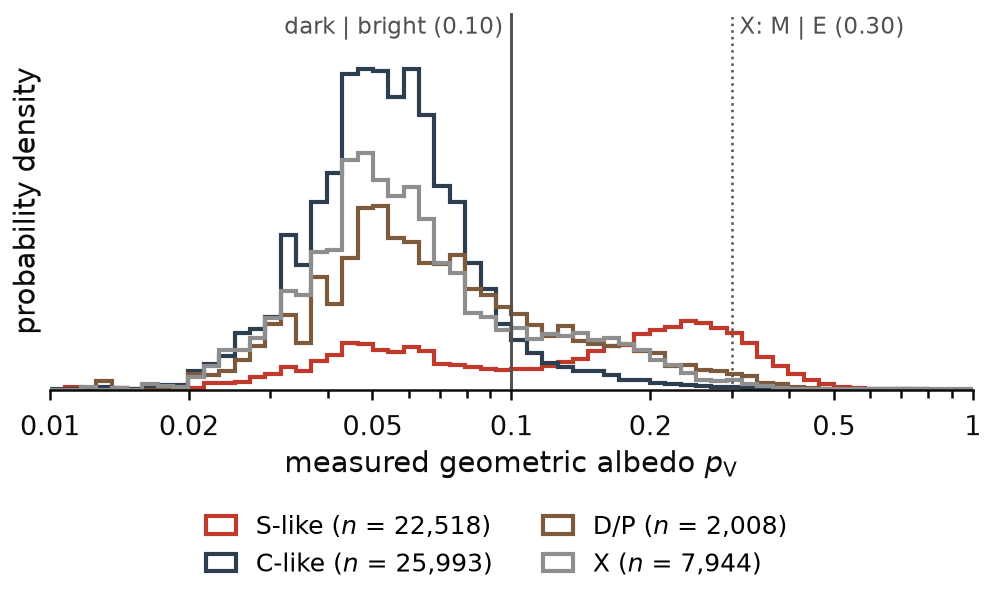
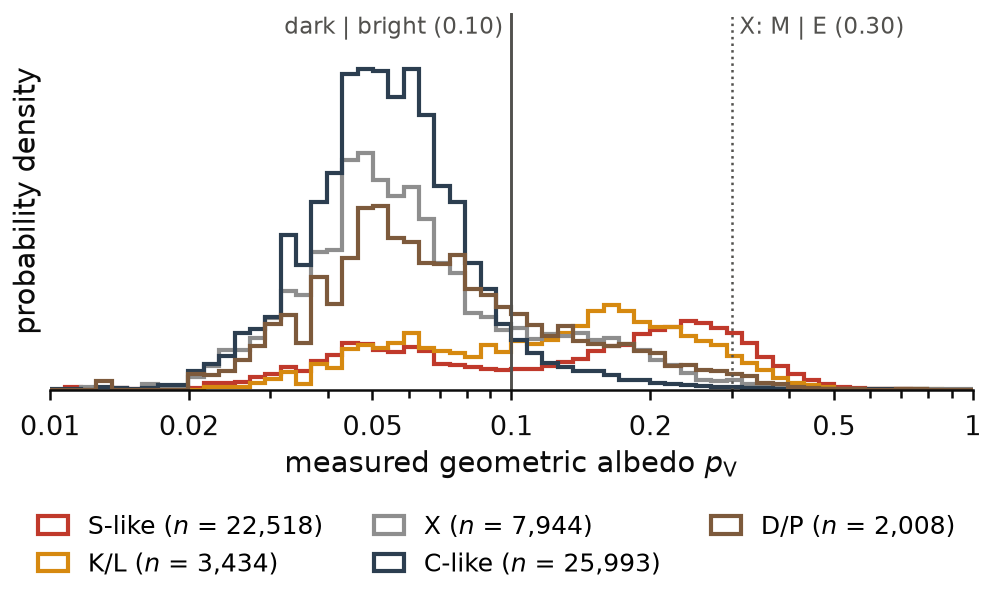
Fig. 12 shows K/L; the paper states three more results the data support (v2.6.5) (#27)
Fig. 12: show the K/L group's albedos too (v2.6.5)

Fig. 12 plotted the measured albedo of four of the five groups and left out
K/L, although summary.json has carried its numbers since v2.6.0. It now
plots all five (legend in three columns), and §4.6 quotes K/L's median
albedo (0.19, against 0.24 for S-like and 0.06 for C-like) and dark share
(15%), each tested against the summary.

The other 13 figures redraw byte for byte under Matplotlib 3.11.1, the
release that drew them; summary.json changes only in the version.

Paper: note that half the D/P group is brighter than 0.10; walkthrough prints the albedo checks

§4.6 says D- and T-types have low albedos, but Fig. 12 now shows the
photometric D/P group straddling the dark/bright boundary (median 0.10,
50% darker). The paper says so, and the numbers are tested against the
summary.

examples/walkthrough.py printed every robustness check but the albedo by
group (Fig. 12) and the X-type split by albedo; it now prints both.

Paper: three statements the data support but the text left out

- §4.4: even the lower ends of the width intervals (1.18–1.32 au) are about
  the belt's span or more, so "wider than the belt" does not rest on the
  point estimates alone.
- §4.5: the pristine-zone median differences have 95% intervals that only
  just exclude zero, and the middle-belt inclinations differ in the other
  direction (S-like bodies more inclined, as Eunomia's halo would make
  them); Table 5 showed this, the text did not say it.
[…]

diff --git a/paper/main.tex b/paper/main.tex
@@ -87,7 +87,7 @@ Table~\ref{tab:1} summarizes the predictions this paper can test. The scenarios 
 The static front makes the sharpest prediction, and the asteroid data alone can test it, because the transition should be much narrower than the 1.2~au span of the belt. The moving snow line is harder to test this way, since it predicts a broad transition too. What distinguishes it from the implantation models is the \textit{material} in the inner belt’s C-types, which must be assessed from meteorites.
 
 \section{Data and Methods}\label{sec:3}
-All analysis code is in a public Python repository, asteroid-belt-gradient (\citealt{edwards2026a}; release v2.6.4), built on NumPy (\citealt{harris2020}), SciPy (\citealt{virtanen2020}), pandas (\citealt{mckinney2010}) and Matplotlib (\citealt{hunter2007}). Two commands download the inputs and regenerate every figure and table in this paper, along with every number in the text that is derived from the data.
+All analysis code is in a public Python repository, asteroid-belt-gradient (\citealt{edwards2026a}; release v2.6.5), built on NumPy (\citealt{harris2020}), SciPy (\citealt{virtanen2020}), pandas (\citealt{mckinney2010}) and Matplotlib (\citealt{hunter2007}). Two commands download the inputs and regenerate every figure and table in this paper, along with every number in the text that is derived from the data.
 
 \subsection{The asteroid catalog and which labels to trust}\label{sec:3.1}
 The starting point is a merged catalog of 1,568,882 asteroids, AsteroidCatalog (\citealt{edwards2026b}), built from NASA JPL’s Small-Body Database (\citetalias{jpl2026}), the SsODNet ssoBFT table (\citealt{berthier2023}), NEOWISE diameters and albedos (\citealt{mainzer2011a,mainzer2019}; \citealt{masiero2011,masiero2012,masiero2014,masiero2017}; \citealt{nugent2015,nugent2016}), and the Minor Planet Physical Properties Catalogue (MP3C; \citetalias{mp3c2026}), in its release of 2026 September 29 (tag \mbox{data-2026-09-29c}). The sample is restricted to the main belt: $2.1 < a < 3.3$~au with perihelion $q > 1.3$~au, which removes Mars-crossers. This leaves 1,443,761 bodies. The belt is divided at the 3:1, 5:2 and 7:3 mean-motion resonances with Jupiter into four zones: inner (2.1–2.5~au), middle (2.5–2.82~au), “pristine” (2.82–2.96~au; \citealt{brozetal2013}) and outer (2.96–3.3~au).
@@ -213,7 +213,7 @@ Asteroid masses have been measured, from spacecraft, binary orbits or gravitatio
 \caption{Mass fraction of each compositional group by zone, for all classified bodies (left) and without Ceres, Vesta, Pallas and Hygiea (right). Total classified mass per zone is given at right.}\label{fig:7}
 \end{figure*}
 \subsection{The crossover}\label{sec:4.4}
-Table~\ref{tab:4} lists the fitted crossover for each sample, and Figure~\ref{fig:8} shows the fitted curves. The raw sample places it at 2.84~au, close to the classical snow line. The three debiased samples move it inward to 2.41–2.47~au, 0.2–0.3~au inside the snow line of Equation~(\ref{eq:1}), and agree with each other within their uncertainties. In every debiased sample the 10–90\% width of the transition is 1.4–1.5~au, larger than the 1.2~au span of the belt. Because the width exceeds the belt, part of each fitted curve is an extrapolation: no debiased fit falls to a C-fraction of 10\% within the belt, and each reaches 90\% only near the belt’s outer edge.
+Table~\ref{tab:4} lists the fitted crossover for each sample, and Figure~\ref{fig:8} shows the fitted curves. The raw sample places it at 2.84~au, close to the classical snow line. The three debiased samples move it inward to 2.41–2.47~au, 0.2–0.3~au inside the snow line of Equation~(\ref{eq:1}), and agree with each other within their uncertainties. In every debiased sample the 10–90\% width of the transition is 1.4–1.5~au, larger than the 1.2~au span of the belt, and even the lower ends of the intervals (1.18–1.32~au) are about as wide as the belt or wider. Because the width exceeds the belt, part of each fitted curve is an extrapolation: no debiased fit falls to a C-fraction of 10\% within the belt, and each reaches 90\% only near the belt’s outer edge.
 
 \begin{deluxetable*}{lccc}
 \tabletypesize{\footnotesize}
@@ -235,7 +235,7 @@ Snow line, Equation~(\ref{eq:1}) & 2.67 & \nodata & \nodata
 \caption{Logistic fits (Equation~(\ref{eq:4})) to the four samples of Table~\ref{tab:4}, solid within the main belt (shaded) and dotted outside it. The lower panel gives each crossover $a_{50}$ with its 16–84\% bootstrap interval; the dashed line marks the snow line of Equation~(\ref{eq:1}).}\label{fig:8}
 \end{figure}
 \subsection{Orbital excitation}\label{sec:4.5}
-Figure~\ref{fig:9} and Table~\ref{tab:5} compare the proper orbits of \mbox{S-}~and C-types within each zone. In the inner belt, where the implantation question matters most, the two distributions are nearly identical ($p = 0.44$ for $e_{\mathrm{P}}$, 0.17 for $\sin i_{\mathrm{P}}$). The largest differences in median are in the pristine zone, where C-types have higher median eccentricity (0.175 versus 0.113) and inclination ($\sin i_{\mathrm{P}}$ 0.217 versus 0.125), but only 24 S-types fall in that zone and neither difference passes the corrected threshold. Only the outer-belt inclinations pass it ($p = 0.0060$). Their medians are almost equal ($\Delta = 0.002$), and the distributions differ in shape: C-types show an excess at the lowest inclinations, where the C-type Themis family lies, and S-like bodies cluster near the inclination of the Eos family. Both patterns are expected from family members missing from the HCM lists (Section~\ref{sec:5.5}). Figure~\ref{fig:10} shows where the tested bodies lie relative to the families. Many outer-belt C-types lie at the low inclinations of the Themis family, and in the middle belt S-like background bodies concentrate around the Eunomia family. With the one-step family extension of Section~\ref{sec:4.6}, which attaches such bodies to their families, no test passes; the smallest $p$ is 0.011, again for the outer-belt inclinations.
+Figure~\ref{fig:9} and Table~\ref{tab:5} compare the proper orbits of \mbox{S-}~and C-types within each zone. In the inner belt, where the implantation question matters most, the two distributions are nearly identical ($p = 0.44$ for $e_{\mathrm{P}}$, 0.17 for $\sin i_{\mathrm{P}}$). The largest differences in median are in the pristine zone, where C-types have higher median eccentricity (0.175 versus 0.113) and inclination ($\sin i_{\mathrm{P}}$ 0.217 versus 0.125), but only 24 S-types fall in that zone and neither difference passes the corrected threshold, although the 95\% intervals of both only just exclude zero. The middle-belt inclinations differ in the other direction: there S-like bodies are the more inclined (0.170 versus 0.150), as members of the Eunomia family’s halo would be, and the 95\% interval of that difference also excludes zero. Only the outer-belt inclinations pass it ($p = 0.0060$). Their medians are almost equal ($\Delta = 0.002$), and the distributions differ in shape: C-types show an excess at the lowest inclinations, where the C-type Themis family lies, and S-like bodies cluster near the inclination of the Eos family. Both patterns are expected from family members missing from the HCM lists (Section~\ref{sec:5.5}). Figure~\ref{fig:10} shows where the tested bodies lie relative to the families. Many outer-belt C-types lie at the low inclinations of the Themis family, and in the middle belt S-like background bodies concentrate around the Eunomia family. With the one-step family extension of Section~\ref{sec:4.6}, which attaches such bodies to their families, no test passes; the smallest $p$ is 0.011, again for the outer-belt inclinations.
 
 \begin{figure*}[t!]
 \centering
@@ -265,7 +265,7 @@ Outer & $e_{\mathrm{P}}$ & 137 & 1,062 & 0.014 [\ensuremath{-}0.002, 0.034] & 0.
 \caption{Proper semimajor axis and inclination of the S-like and C-like background bodies with $D \geq 10$~km compared in Table~\ref{tab:5}, over the density of all family members (gray, logarithmic scale). Labels mark the largest families; dotted lines mark the Kirkwood gaps.}\label{fig:10}
 \end{figure}
 \subsection{Robustness}\label{sec:4.6}
-\textbf{An albedo-only check. }Taxonomy can be avoided altogether by using measured albedos. C-, B-, \mbox{D-}~and T-types all have low visible albedos, while S-types are brighter, although the two overlap at small sizes (\citealt{mainzer2011b}). Treating $p_{\mathrm{V}} < 0.10$ as “dark” and applying the same completeness analysis gives a complete sample for $D \geq 33$~km. For background bodies in that sample, the dark fraction is 0.45, 0.66, 0.79 and 0.82 from the inner to the outer zone (Figure~\ref{fig:11}), in close agreement with the taxonomic results. Albedo and taxonomy come from different surveys and different physics (thermal infrared versus reflectance colors), so the agreement indicates that the result is not an artifact of the classification. The two measures are not identical: among bodies with both a published class and a measured albedo, 84\% of the C-like and 13\% of the S-like bodies are darker than 0.10 (Figure~\ref{fig:12}).
+\textbf{An albedo-only check. }Taxonomy can be avoided altogether by using measured albedos. C-, B-, \mbox{D-}~and T-types all have low visible albedos, while S-types are brighter, although the two overlap at small sizes (\citealt{mainzer2011b}). Treating $p_{\mathrm{V}} < 0.10$ as “dark” and applying the same completeness analysis gives a complete sample for $D \geq 33$~km. For background bodies in that sample, the dark fraction is 0.45, 0.66, 0.79 and 0.82 from the inner to the outer zone (Figure~\ref{fig:11}), in close agreement with the taxonomic results. Albedo and taxonomy come from different surveys and different physics (thermal infrared versus reflectance colors), so the agreement indicates that the result is not an artifact of the classification. The two measures are not identical: among bodies with both a published class and a measured albedo, 84\% of the C-like and 13\% of the S-like bodies are darker than 0.10 (Figure~\ref{fig:12}). K/L-types are much closer to the S-like bodies than to the C-like ones: their median albedo is 0.19, against 0.24 and 0.06, and 15\% of them are darker than 0.10. The D/P group straddles the boundary (median 0.10, with 50\% of its members darker than 0.10), so its photometric labels include many bodies brighter than typical \mbox{D-}~and T-types.
 
 \begin{figure}[htb!]
 \centering
@@ -279,7 +279,7 @@ Outer & $e_{\mathrm{P}}$ & 137 & 1,062 & 0.014 [\ensuremath{-}0.002, 0.034] & 0.
 \begin{figure}[htb!]
 \centering
 \includegraphics[width=\columnwidth]{figures/fig12_albedo_by_group.png}
-\caption{Measured geometric albedo of the S-like, C-like, D/P and X-type bodies with a published taxonomy (normalized histograms). The solid line marks the dark/bright boundary of Section~\ref{sec:4.6} ($p_{\mathrm{V}} = 0.10$), and the dotted line the boundary between \mbox{M-}~and E-type X-types ($p_{\mathrm{V}} = 0.30$).}\label{fig:12}
+\caption{Measured geometric albedo of the bodies with a published taxonomy in each of the five groups (normalized histograms). The solid line marks the dark/bright boundary of Section~\ref{sec:4.6} ($p_{\mathrm{V}} = 0.10$), and the dotted line the boundary between \mbox{M-}~and E-type X-types ($p_{\mathrm{V}} = 0.30$).}\label{fig:12}
 \end{figure}
 \textbf{Family membership. }The 2015 family lists include only asteroids numbered by 2015. As an upper bound on missed members, every unlisted body whose nearest listed family member lies within that family’s HCM cutoff is attached to that family. This is deliberately aggressive, since the cutoffs were tuned on a catalog of 384,337 numbered asteroids (\citealt{nesvorny2015}), about a third the size of the 1.25 million orbits used here, and it raises the family fraction from 10.6\% to 24.3\%. Even so, zone fractions change by at most 0.01 and the crossover moves by at most 0.02~au.
 
@@ -314,7 +314,7 @@ Supplying enough mass is not a problem for implantation. When the giant planets 
 Whatever process excited the belt’s eccentricities and inclinations acted on both populations after they were in place (\citealt{petit2001}; \citealt{morbidelli2015}), and over 4.5~Gyr, secular resonances, mean-motion resonances and size-dependent Yarkovsky drift (\citealt{bottke2006}) would erase much of any small difference that survived. In the Grand Tack, for example, the eccentricities left by implantation are reshaped by the later giant-planet instability and 4~Gyr of evolution into a distribution close to today’s (\citealt{deienno2016}). The absence of a class dependence beyond what family halos produce is therefore consistent with implantation but does not independently favor it. The nominal excess excitation of pristine-zone C-types (Table~\ref{tab:5}) should be re-examined with a larger S-type sample.
 
 \subsection{Limitations}\label{sec:5.5}
-Photometric taxonomy is coarse: most classifications come from SkyMapper or SDSS colors rather than spectra (\citealt{sergeyev2021}; \citealt{sergeyev2022}), so the analysis is kept at the level of broad groups. K-types are often confused with S-types in color data, which is why \citet{demeo2013} reclassify the K-type Eos family by hand; here Eos is classified as S-like by plurality (0.44 of its classified members).
+Photometric taxonomy is coarse: most classifications come from SkyMapper or SDSS colors rather than spectra (\citealt{sergeyev2021}; \citealt{sergeyev2022}), so the analysis is kept at the level of broad groups. K-types are often confused with S-types in color data, which is why \citet{demeo2013} reclassify the K-type Eos family by hand; here Eos is classified as S-like by plurality (0.44 of its classified members), and only 0.19 of them are K/L, fewer than the 0.30 that are C-like. Color labels also misplace some members of families whose composition is not in doubt: 6\% of the classified members of the basaltic Vesta family are C-like, and 6\% of those of the C-type Themis family are S-like, whether as misclassifications or as interlopers. Errors at that rate cannot turn an S-type population into one with the inner-belt C-fractions of 0.39–0.53 found here.
 
 The isotopic argument rests on a few sample links. Section~\ref{sec:5.1} assumes that C-complex asteroids in general sample CC material. That is established for Ryugu and Bennu (\citealt{yokoyama2023}; \citealt{lauretta2024}) and supported by spectral links to CI and CM chondrites (e.g., \citealt{rivkin2012}), but not demonstrated body by body.
 
@@ -340,7 +340,7 @@ This research has made use of data and services provided by the International As
 \software{NumPy \citep{harris2020}, SciPy \citep{virtanen2020}, pandas \citep{mckinney2010}, Matplotlib \citep{hunter2007}, asteroid-belt-gradient \citep{edwards2026a}}
 \section*{Data availability}
 {\raggedright % URLs and identifiers cannot stretch: ragged right instead of loose justified lines
-Family membership and proper elements: the PDS Small Bodies Node, bundle \texttt{ast.nesvorny.families} V2.0 (\citealt{nesvorny2024}). Asteroid catalog: the AsteroidCatalog (\citealt{edwards2026b}; \url{https://github.com/loggger101/AsteroidCatalog}), release \mbox{data-2026-09-29c}, one frozen build that the analysis code downloads by its tag. Among its sources is the NEOWISE Diameters and Albedos V2.0 data set (\citealt{mainzer2019}). Analysis code: asteroid-belt-gradient v2.6.4 (\citealt{edwards2026a}; \url{https://github.com/loggger101/asteroid-belt-gradient}), which downloads both inputs and reproduces every figure and table; every number in the text that comes from the data or from the calculations described here is written to its \texttt{results/summary.json}.\par}
+Family membership and proper elements: the PDS Small Bodies Node, bundle \texttt{ast.nesvorny.families} V2.0 (\citealt{nesvorny2024}). Asteroid catalog: the AsteroidCatalog (\citealt{edwards2026b}; \url{https://github.com/loggger101/AsteroidCatalog}), release \mbox{data-2026-09-29c}, one frozen build that the analysis code downloads by its tag. Among its sources is the NEOWISE Diameters and Albedos V2.0 data set (\citealt{mainzer2019}). Analysis code: asteroid-belt-gradient v2.6.5 (\citealt{edwards2026a}; \url{https://github.com/loggger101/asteroid-belt-gradient}), which downloads both inputs and reproduces every figure and table; every number in the text that comes from the data or from the calculations described here is written to its \texttt{results/summary.json}.\par}
 
 \appendix
 \restartappendixnumbering

diff --git a/tests/test_paper_numbers.py b/tests/test_paper_numbers.py
@@ -192,6 +192,7 @@ def _prose() -> dict[str, str]:
     top4, ipw_inner = t["mass_share_of_classified"], t["innermost_c_fraction_ipw"]
     n_lo, n_hi = sorted(t["innermost_n_S_plus_C_size_complete_2.1-2.3"].values())
     big, second = t["flora_family_two_largest"]
+    fs = t["family_voter_group_shares"]
     dark = [S["dark_fraction_complete"][z] for z in ZONES]
     no4 = [mc["no_big4"][z] for z in ZONES]
     p_share = xs["P_share_of_split_by_zone"]
@@ -256,6 +257,8 @@ def _prose() -> dict[str, str]:
         "debiased crossover": f"move it inward to {a50_span}~au, {sl - max(a50[k] for k in debiased):.1f}–"
                               f"{sl - min(a50[k] for k in debiased):.1f}~au inside the snow line",
         "transition width": f"the 10–90\\% width of the transition is {width_span}~au",
+        "transition width, lower ends": "the lower ends of the intervals ("
+                                        + span([S["crossover"][k]["width_lo"] for k in debiased]) + "~au)",
         "inward move (5.1)": f"the crossover moves inward by about {a50[raw] - a50[KEYS[1]]:.1f}~au",
         "IPW and complete crossovers (5.5)": f"({a50[KEYS[2]]:.2f} versus {a50[KEYS[1]]:.2f}~au)",
         # section 4.5
@@ -264,7 +267,9 @@ def _prose() -> dict[str, str]:
         "pristine e medians": f"({ot['pristine', 'proper e']['median_C']:.3f} versus {ot['pristine', 'proper e']['median_S']:.3f})",
         "pristine sin i medians": f"($\\sin i_{{\\mathrm{{P}}}}$ {ot['pristine', 'proper sin i']['median_C']:.3f} versus "
                                   f"{ot['pristine', 'proper sin i']['median_S']:.3f})",
-        "pristine S-types": f"only {ot['pristine', 'proper e']['n_S']} S-types fall in that zone",
+        "middle sin i medians": f"S-like bodies are the more inclined ({ot['middle', 'proper sin i']['median_S']:.3f} versus "
+                                f"{ot['middle', 'proper sin i']['median_C']:.3f})",
+        "pristine S-types":f"only {ot['pristine', 'proper e']['n_S']} S-types fall in that zone",
         "outer inclinations": f"Only the outer-belt inclinations pass it ($p = {p2(ot['outer', 'proper sin i']['KS_p'])}$)",
         "outer medians": f"($\\Delta = {ot['outer', 'proper sin i']['dmedian_C_minus_S']:.3f}$)",
         "extended orbit test": f"the smallest $p$ is {p2(min(r['KS_p'] for r in ext['orbit_tests_ks']))}, "
@@ -274,6 +279,11 @@ def _prose() -> dict[str, str]:
         "albedo complete limit": f"gives a complete sample for $D \\geq {S['completeness']['D_complete_albedo_km']:.0f}$~km",
         "dark C and S": f"{pct(S['albedo_by_group']['C-like']['frac_below_0.10'])} of the C-like and "
                         f"{pct(S['albedo_by_group']['S-like']['frac_below_0.10'])} of the S-like bodies are darker than 0.10",
+        "K/L albedo": f"their median albedo is {S['albedo_by_group']['K/L']['median_pV']:.2f}, against "
+                      f"{S['albedo_by_group']['S-like']['median_pV']:.2f} and {S['albedo_by_group']['C-like']['median_pV']:.2f}, "
+                      f"and {pct(S['albedo_by_group']['K/L']['frac_below_0.10'])} of them are darker than 0.10",
+        "D/P albedo": f"(median {S['albedo_by_group']['D/P']['median_pV']:.2f}, with "
+                      f"{pct(S['albedo_by_group']['D/P']['frac_below_0.10'])} of its members darker than 0.10)",
         "X split counts": f"Of the {xs['n_taxonomy_X_group']:,} classified X-complex bodies, {xs['n_split']:,} have a measured albedo",
         "X split P-like": f"and {xs['n_split_by_class']['P']:,} of these are P-like",
         "X split P share": f"lower in the inner belt ({p_share['inner']:.2f}) than beyond it ({span([p_share[z] for z in ZONES[1:]])})",
@@ -283,6 +293,10 @@ def _prose() -> dict[str, str]:
         "middle belt (5.2)": f"raise its middle-belt C-fraction from {zone_f(raw, 'middle'):.2f} to {deb('middle')}",
         "Eos": f"here Eos is classified as {t['eos_family']['fam_group']} by plurality "
                f"({t['eos_family']['purity']:.2f} of its classified members)",
+        "Eos K/L and C": f"only {fs['Eos']['K/L']:.2f} of them are K/L, fewer than the {fs['Eos']['C-like']:.2f} that are C-like",
+        "Vesta and Themis": f"{pct(fs['Vesta']['C-like'])} of the classified members of the basaltic Vesta family are C-like, "
+                            f"and {pct(fs['Themis']['S-like'])} of those of the C-type Themis family are S-like",
+        "inner C range (5.5)": f"the inner-belt C-fractions of {deb('inner')} found here",
         "derived diameters": f"Of the classified bodies, {pct(t['derived_diameter_fraction_taxonomy'])} have diameters",
         "Flora": f"(9) {big['name']}, an \\mbox{{{big['spectral_type']}-type}} body larger than the {second['spectral_type']}-type "
                  f"(8) {second['name']} itself",
@@ -303,7 +317,9 @@ def test_no_share_the_paper_prints_as_a_percentage_is_stored_on_a_half_percent()
     shares = (t["dp_share_per_0.1AU_bin_from_2.9AU"] + t["completeness_H13.5_to_14.5_range"]
               + list(t["mass_share_of_classified"].values()) + [mc["inner"], mc["middle"]]
               + [t[k] for k in ("assumed_label_fraction", "measured_share_of_classified_mass", "inner_mass_S_of_S_plus_C",
-                                "derived_diameter_fraction_taxonomy")])
+                                "derived_diameter_fraction_taxonomy")]
+              + [SUMMARY["albedo_by_group"][g]["frac_below_0.10"] for g in ("S-like", "C-like", "K/L", "D/P")]
+              + [t["family_voter_group_shares"]["Vesta"]["C-like"], t["family_voter_group_shares"]["Themis"]["S-like"]])
     for v in shares:
         halves = round(v * 200, 6)                     # a whole number of half percents
         assert not (halves.is_integer() and int(halves) % 2 == 1), f"{v} is stored on a half percent"
@@ -343,8 +359,33 @@ def test_every_debiased_transition_is_wider_than_the_belt_and_reaches_10_and_90_
         x = SUMMARY["crossover"][k]
         a10, a90 = x["a50"] - x["width_10_90"] / 2, x["a50"] + x["width_10_90"] / 2
         assert x["width_10_90"] > A_MAX - A_MIN, k
+        assert x["width_lo"] > A_MAX - A_MIN - 0.05, f"{k}: the interval's lower end is not about the belt's span or more"
         assert a10 < A_MIN, f"{k}: the fit falls to 10% inside the belt, at a = {a10:.2f} au"
         assert A_MAX - 0.2 < a90 < A_MAX, f"{k}: the fit reaches 90% at a = {a90:.2f} au"
+
+
+def test_the_family_voter_shares_agree_with_the_family_table():
+    """§5.5 quotes the voting members' groups for Eos, Vesta and Themis; they are the same members that set Eos's
+    class and its purity."""
+    t = SUMMARY["text_numbers"]
+    fs, eos = t["family_voter_group_shares"], t["eos_family"]
+    assert round(fs["Eos"][eos["fam_group"]], 2) == eos["purity"]
+    assert max(fs["Eos"], key=fs["Eos"].get) == eos["fam_group"]
+    for name, shares in fs.items():
+        assert abs(sum(shares.values()) - 1) < 1e-3, name
+    assert max(fs["Vesta"], key=fs["Vesta"].get) == "S-like" and max(fs["Themis"], key=fs["Themis"].get) == "C-like"
+
+
+def test_only_three_median_differences_exclude_zero_and_the_pristine_ones_only_just():
+    """§4.5: the pristine-zone intervals "only just exclude zero"; the middle-belt inclination interval "also excludes
+    zero", with S-like bodies the more inclined; no other interval of Table 5 does."""
+    ot = {(r["zone"], r["element"]): r for r in SUMMARY["orbit_tests"]}
+    excluding = {k for k, r in ot.items() if r["ci95_lo"] > 0 or r["ci95_hi"] < 0}
+    assert excluding == {("pristine", "proper e"), ("pristine", "proper sin i"), ("middle", "proper sin i")}
+    for el in ("proper e", "proper sin i"):
+        assert 0 < ot["pristine", el]["ci95_lo"] < 0.005, el
+    mid = ot["middle", "proper sin i"]
+    assert mid["ci95_hi"] < 0 and mid["median_S"] > mid["median_C"]
 
 
 def test_the_debiased_crossovers_agree_within_their_intervals():

diff --git a/src/beltgradient/pipeline.py b/src/beltgradient/pipeline.py
@@ -135,11 +135,18 @@ def text_numbers(mb, ftab, comp, samples, keys, t_mass, zt_narrow, zt_broad) -> 
     # families the Limitations section names
     eos = ftab.loc[_family(ftab, "Eos")]
     flora_top2 = mb[mb.fam_id.eq(_family(ftab, "Flora"))].nlargest(2, "diameter_km")
+    # the groups of the members that vote on a family's class (taxonomy, not X): how mixed one parent's labels are
+    voting = sorted(g for g in GROUP_ORDER if g != "X")                 # every group, so a missing one reads 0
+    voters = mb[mb.in_family & mb.tier.eq("taxonomy") & mb.group.isin(voting)]
+    fam_shares = {name: {g: _round(v) for g, v in voters[voters.fam_id.eq(_family(ftab, name))].group
+                         .value_counts(normalize=True).reindex(voting, fill_value=0.0).items()}
+                  for name in ("Eos", "Vesta", "Themis")}
     return {
         "n_main_belt_by_label_tier": {k: int(v) for k, v in mb.tier.value_counts().items()},
         "assumed_tier_albedo_by_a": {f"{p:.3f}": {"a_min": round(float(r["min"]), 3), "a_max": round(float(r["max"]), 3), "n": int(r["size"])}
                                      for p, r in asm.iterrows()},
         "eos_family": {"fam_group": eos.fam_group, "purity": round(float(eos.purity), 2), "n_labelled": int(eos.n_labelled)},
+        "family_voter_group_shares": fam_shares,
         "flora_family_two_largest": [{"name": r["name"], "spectral_type": r.spectral_type, "diameter_km": round(float(r.diameter_km), 1)}
                                      for _, r in flora_top2.iterrows()],
         "assumed_label_fraction": round(float(mb.tier.eq("assumed").mean()), 4),

diff --git a/src/beltgradient/figures.py b/src/beltgradient/figures.py
@@ -461,9 +461,6 @@ def sample_flow(summary: dict, keys: list[str]):
     return fig
 
 
-ALBEDO_GROUPS = ["S-like", "C-like", "D/P", "X"]
-
-
 def albedo_by_group(mb: pd.DataFrame, cuts: tuple[float, float]):
     """Measured geometric albedo of the bodies with a published taxonomy, by group (normalised histograms)."""
     t = mb[mb.tier.eq("taxonomy") & mb.albedo.notna()]
@@ -473,7 +470,7 @@ def albedo_by_group(mb: pd.DataFrame, cuts: tuple[float, float]):
         raise ValueError(f"albedo figure: {len(out)} measured albedos outside [{bins[0]}, {bins[-1]}]: "
                          f"{out.albedo.head(5).tolist()}")
     fig, ax = _fig(COL_W, 2.0)
-    for g in ALBEDO_GROUPS:
+    for g in GROUP_ORDER:
         a = t.loc[t.group.eq(g), "albedo"]
         ax.hist(a, bins=bins, density=True, histtype="step", lw=1.0, color=COLORS[g], label=_math(f"{g} (n = {len(a):,})"))
     ax.axvline(cuts[0], color=INK2, lw=.7)
@@ -489,5 +486,5 @@ def albedo_by_group(mb: pd.DataFrame, cuts: tuple[float, float]):
     ax.set_yticks([])
     ax.spines["left"].set_visible(False)
     # below the plot: inside, the 0.30 line crossed the legend
-    fig.legend(*ax.get_legend_handles_labels(), loc="outside lower center", ncol=2, handlelength=1.2)
+    fig.legend(*ax.get_legend_handles_labels(), loc="outside lower center", ncol=3, handlelength=1.2)
     return fig

diff --git a/examples/walkthrough.py b/examples/walkthrough.py
@@ -80,6 +80,16 @@ def main():
     print(T["dark_zone"].round(3).to_string())
     figure("dark")
 
+    section("Robustness: measured albedo by group", "Bodies with both a published class and a measured albedo.")
+    print(pd.DataFrame(S["albedo_by_group"]).T.astype({"n": int}).to_string())
+    figure("albedo_groups")
+
+    xs = S["x_split_by_albedo"]
+    lo, hi = xs["albedo_cuts_P_M_E"]
+    section("Robustness: X-types split by albedo", f"P below p_V = {lo}, M up to {hi}, E above; P-like X-types join D/P.")
+    print(f"{xs['n_split']:,} of {xs['n_taxonomy_X_group']:,} classified X-types can be split:", xs["n_split_by_class"])
+    print(pd.DataFrame(xs["split_by_zone"]).T.assign(P_share=pd.Series(xs["P_share_of_split_by_zone"])).to_string())
+
     ext = S["family_extension_toggled"]
     section("Robustness: one-step family extension (aggressive upper bound on missed members)")
     print(f"family fraction {S['families']['family_fraction']:.3f} -> {ext['family_fraction']:.3f}")

diff --git a/tests/test_check_format.py b/tests/test_check_format.py
@@ -65,7 +65,7 @@ SOURCE_DEFECTS = [
     ("surname missing from \\hyphenation", lambda t, b: (plant(t, " Walsh ", " "), b), "missing from \\hyphenation"),
     ("loose lines hidden", lambda t, b: (plant(t, "\\hbadness=1000", ""), b), "hbadness=1000"),
     ("journal spelled out", lambda t, b: (t, plant(b, "journal = {\\apj}", "journal = {The Astrophysical Journal}")), "spelled out"),
-    ("cited versions disagree", lambda t, b: (t, plant(b, "version = {v2.6.4,}", "version = {v2.6.3,}")), "cited code version disagrees"),
+    ("cited versions disagree", lambda t, b: (t, plant(b, "version = {v2.6.5,}", "version = {v2.6.4,}")), "cited code version disagrees"),
 ]
 
 

diff --git a/tests/test_end_to_end.py b/tests/test_end_to_end.py
@@ -272,7 +272,7 @@ def test_the_walkthrough_runs(result, monkeypatch, capsys):
     walk.main()
     out = capsys.readouterr().out
     for title in ["Label provenance", "Collisional families", "S/C crossover", "Orbital excitation",
-                  "one-step family extension"]:
+                  "albedo by group", "X-types split by albedo", "one-step family extension"]:
         assert title in out, title
 
 

diff --git a/src/beltgradient/__init__.py b/src/beltgradient/__init__.py
@@ -4,4 +4,4 @@ Analysis code for Edwards (2026), "Constraints on the Origin of the Asteroid Bel
 from Debiased Taxonomic Data". ``python -m beltgradient fetch`` downloads the inputs;
 ``python -m beltgradient run`` regenerates every figure and ``results/summary.json``.
 """
-__version__ = "2.6.4"
+__version__ = "2.6.5"

diff --git a/README.md b/README.md
@@ -120,10 +120,11 @@ The catalog is a merger, and two of its sources make citation a condition of use
 
 The full list is in the [AsteroidCatalog citations](https://github.com/loggger101/AsteroidCatalog/blob/main/CITATIONS.md).
 
-See [`CITATION.cff`](CITATION.cff). The paper cites release **v2.6.4**, which reads the AsteroidCatalog release `data-2026-09-29c` (data contract 1.8.1). What each release changed is listed under [Releases](#releases).
+See [`CITATION.cff`](CITATION.cff). The paper cites release **v2.6.5**, which reads the AsteroidCatalog release `data-2026-09-29c` (data contract 1.8.1). What each release changed is listed under [Releases](#releases).
 
 ## Releases
 
+- **v2.6.5** (2026-11-03) adds the K/L group to Fig. 12, which showed the measured albedos of the other four groups only, and moves its legend to three columns. The paper's §4.6 now quotes the K/L and D/P albedos (`albedo_by_group`, in `summary.json` since v2.6.0): K/L sit close to the S-likes, and half the D/P group is brighter than 0.10. `summary.json` adds `text_numbers` → `family_voter_group_shares`, the groups of the members that vote on the class of the Eos, Vesta and Themis families, which §5.5 now quotes: color labels put 6% of the Vesta family among the C-likes and 6% of Themis among the S-likes, far too few errors to produce the inner belt's C-fraction. No other figure and no other number changes; apart from that block and the version, `summary.json` is identical to v2.6.4's.
 - **v2.6.4** (2026-11-03) writes the D/P share per 0.1 au bin beyond 2.9 au (`text_numbers` and `x_split_by_albedo` → `dp_share_per_0.1AU_bin_from_2.9AU`) to four decimals instead of three. At three, the smallest share, 17/126 = 0.1349, was written 0.135, and the paper's §4.1 rounded that up a second time, to 14%; it now reads 13–25%. The tests now check every data-derived number in the paper's text and every result this README quotes against `summary.json`. No other number and no figure changes; `summary.json` differs from v2.6.3's only in the version and two of those values (0.135 → 0.1349, and the X-split sample's 0.286 → 0.2857).
 - **v2.6.3** (2026-10-10) changes only how figures are drawn. Variables in figure labels are set in italics, as the paper sets them (semimajor axis $a$, diameter $D$, absolute magnitude $H$, sample size $n$, $P(\mathrm{C} \mid a)$, KS $p$, proper $e_\mathrm{P}$ and $\sin i_\mathrm{P}$), in every figure but Figs. 1 and 7. The legend of Fig. 12 moves below the plot, where the $p_\mathrm{V} = 0.30$ line no longer crosses it; Fig. 10's Koronis and Nysa–Polana labels move clear of the 5:2 line and the axis; Figs. 2 and 11 drop doubled parentheses from their legends; and the lower panel of Fig. 8 gives its diameter limits in km. `summary.json` is identical to v2.6.1's apart from the version.
 - **v2.6.2** (merged 2026-10-10, not released on its own; its changes ship in v2.6.3). It writes label subscripts upright, as the paper does ($H_\mathrm{c}$, $D_\mathrm{c}$, $T_\mathrm{eq}$, $p_\mathrm{V}$, $a_\mathrm{P}$, $i_\mathrm{P}$), in Figs. 4, 10, 11, 12, 13 and A1; `summary.json` is identical to v2.6.1's apart from the version.
